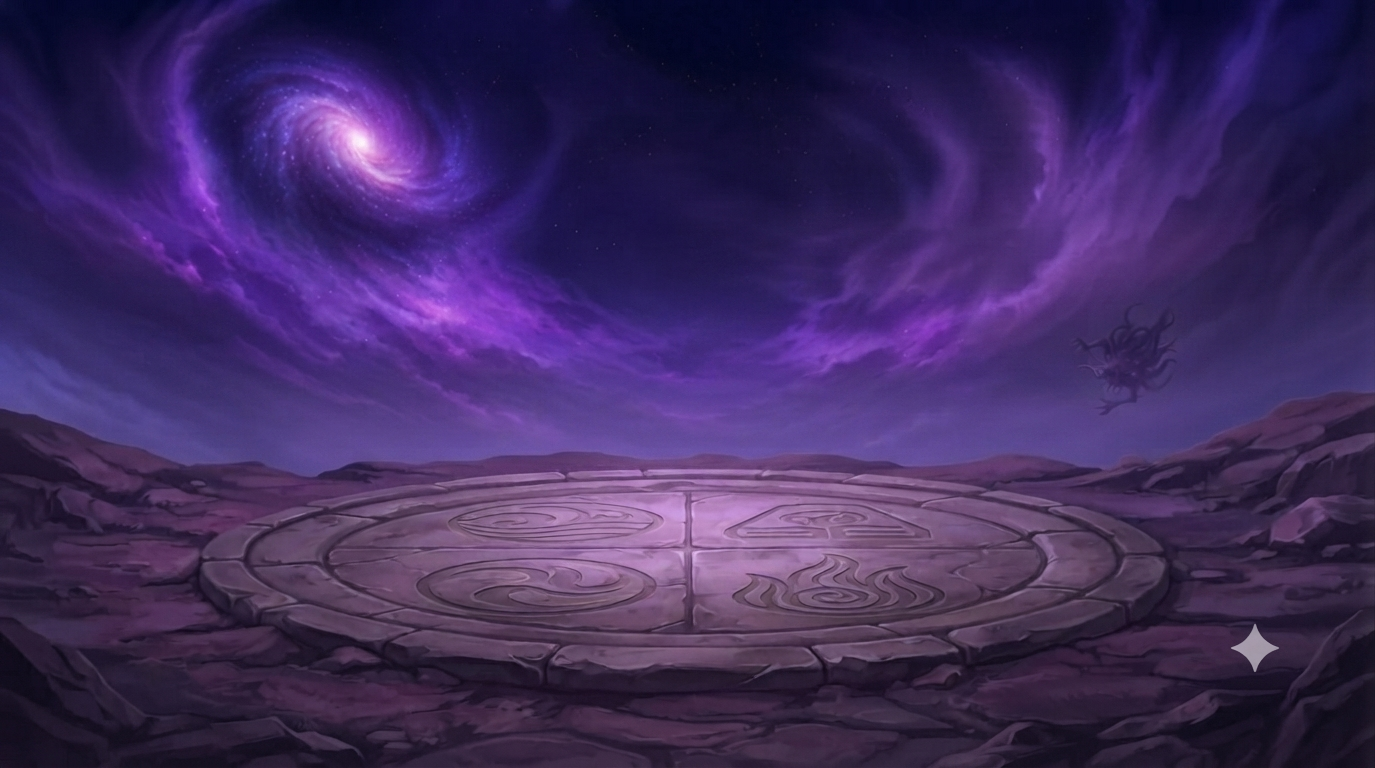
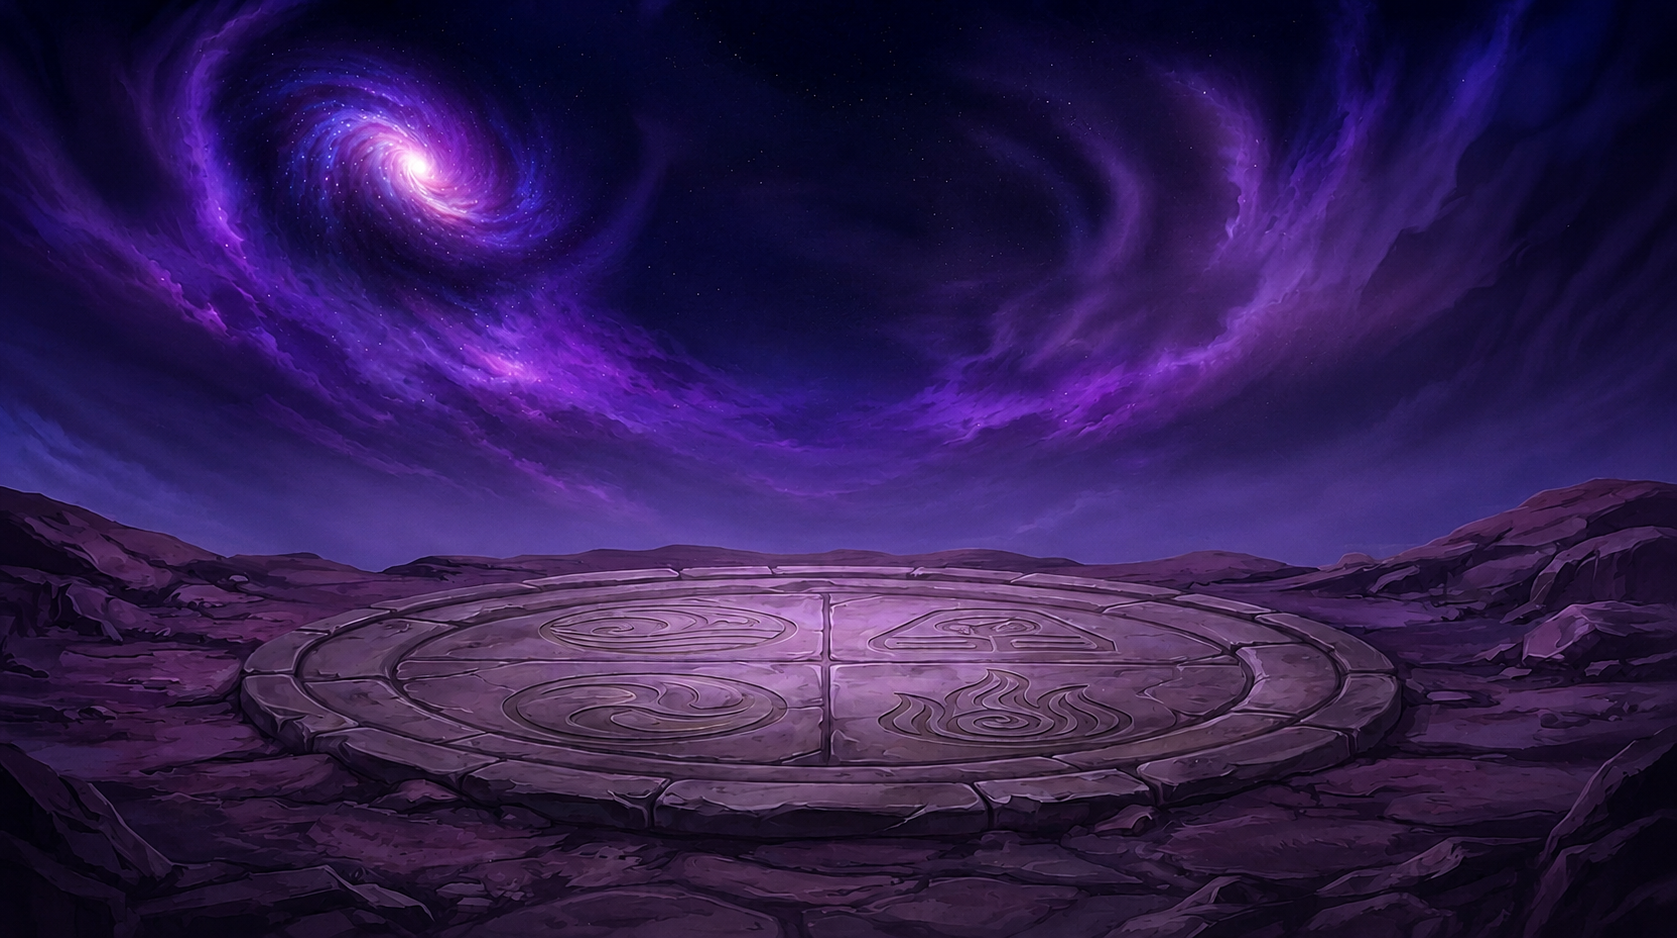
ajustes finais

diff --git a/src/routes/jogar/+page.svelte b/src/routes/jogar/+page.svelte
@@ -91,16 +91,16 @@
 	];
 
 	let listaInimigosCompleta: Inimigo[] = [
-		{ nome: 'Slime Verde', vida: 48, vidaMaxima: 48, ataque: 10, defesa: 3, emoji: '🟢' },
-		{ nome: 'Goblin Saqueador', vida: 70, vidaMaxima: 70, ataque: 14, defesa: 5, emoji: '👹' },
-		{ nome: 'Esqueleto Guerreiro', vida: 88, vidaMaxima: 88, ataque: 16, defesa: 7, emoji: '💀' },
-		{ nome: 'Orco Enfurecido', vida: 105, vidaMaxima: 105, ataque: 18, defesa: 9, emoji: '🐗' },
-		{ nome: 'Dragão Filhote (Chefe)', vida: 140, vidaMaxima: 140, ataque: 24, defesa: 10, emoji: '🐲', chefe: true},
+		{ nome: 'Árvore sombria', vida: 48, vidaMaxima: 48, ataque: 10, defesa: 3, emoji: '🪾' },
+		{ nome: 'Monstro de lava', vida: 70, vidaMaxima: 70, ataque: 14, defesa: 5, emoji: '👹' },
+		{ nome: 'Esqueleto de pedra', vida: 88, vidaMaxima: 88, ataque: 16, defesa: 7, emoji: '💀' },
+		{ nome: 'Tornado devastardor (chefe)', vida: 105, vidaMaxima: 105, ataque: 18, defesa: 9, emoji: '🌪️' },
+		{ nome: 'Dragão (Chefe)', vida: 140, vidaMaxima: 140, ataque: 24, defesa: 10, emoji: '🐲', chefe: true},
 		{ nome: 'Feiticeira das Sombras', vida: 118, vidaMaxima: 118, ataque: 21, defesa: 9, emoji: '🧙♀️'},
-		{ nome: 'Servo de Cristal', vida: 125, vidaMaxima: 125, ataque: 20, defesa: 10, emoji: '🔷' },
+		{ nome: 'Tsunami', vida: 125, vidaMaxima: 125, ataque: 20, defesa: 10, emoji: '🌊' },
 		{ nome: 'Harpia do Vento', vida: 132, vidaMaxima: 132, ataque: 21, defesa: 10, emoji: '🐦' },
 		{ nome: 'Guardião Flamejante', vida: 145, vidaMaxima: 145, ataque: 23, defesa: 11, emoji: '🔥'},
-		{ nome: 'Rei das Ruínas (Chefe)', vida: 158, vidaMaxima: 158, ataque: 25, defesa: 12, emoji: '👑', chefe: true}
+		{ nome: 'Rei das Ruínas (Chefe)', vida: 158, vidaMaxima: 160, ataque: 25, defesa: 12, emoji: '👑', chefe: true}
 	];
 
 	type ItemLoja = { id: string; nome: string; descricao: string; custo: number };
@@ -184,11 +184,12 @@
 		'Poder Especial': 0,
 		'Golpe Elemental': 0
 	};
-	let ataquesDisponiveis: Ataque[] = [
-		{ nome: 'Soco', emoji: '👊', multiplicador: 1.0, descricao: 'Ataque direto e estável' },
-		{ nome: 'Chute', emoji: '🥊', multiplicador: 1.12, descricao: 'Golpe mais forte' },
-		{ nome: 'Poder Especial', emoji: '✨', multiplicador: 1.35, descricao: 'Ataque devastador' },
-		{ nome: 'Golpe Elemental', emoji: '⚡', multiplicador: 1.2, descricao: 'Ataque com poder do elemento' }
+	let ataquesDisponiveis: Array<Ataque | { nome: string; emoji: string; multiplicador: number; descricao: string; tipo: 'ataque' | 'defesa' }> = [
+		{ nome: 'Soco', emoji: '👊', multiplicador: 1.0, descricao: 'Ataque direto e estável', tipo: 'ataque' },
+		{ nome: 'Chute', emoji: '🥊', multiplicador: 1.12, descricao: 'Golpe mais forte', tipo: 'ataque' },
+		{ nome: 'Poder Especial', emoji: '✨', multiplicador: 1.35, descricao: 'Ataque devastador', tipo: 'ataque' },
+		{ nome: 'Golpe Elemental', emoji: '⚡', multiplicador: 1.2, descricao: 'Ataque com poder do elemento', tipo: 'ataque' },
+		{ nome: 'Defesa', emoji: '🛡️', multiplicador: 0, descricao: 'Reduz o dano do próximo golpe', tipo: 'defesa' }
 	];
 
 	function ataqueEspecialAtingiuLimite(ataqueNome: string): boolean {
@@ -198,7 +199,8 @@
 
 	function restanteAtaqueEspecial(ataqueNome: string): number {
 		if (ataqueNome !== 'Poder Especial' && ataqueNome !== 'Golpe Elemental') return 0;
-		return LIMITE_ATAQUES_ESPECIAIS - (usosAtaquesEspeciais[ataqueNome] ?? 0);
+		const usosAtual = usosAtaquesEspeciais[ataqueNome] ?? 0;
+		return Math.max(0, LIMITE_ATAQUES_ESPECIAIS - usosAtual);
 	}
 
 	function escolherPersonagem(personagem: Personagem) {
@@ -248,13 +250,47 @@
 		goto('/');
 	}
 
+	let mostrarConfirmacaoSaida = false;
+
+    function abrirConfirmacaoSaida() {
+        mostrarConfirmacaoSaida = true;
+    }
+
+    function cancelarSaidaBatalha() {
+        mostrarConfirmacaoSaida = false;
+    }
+
+    function confirmarSaidaBatalha() {
+        mostrarConfirmacaoSaida = false;
+
+        jogo = {
+            personagemSelecionado: null,
+            inimigoAtual: null,
+            fase: 1,
+            mensagem: '',
+            tela: 'menu'
+        };
+
+        pilhaTelas = ['historia'];
+        logEventos = [];
+        usosAtaquesEspeciais = {
+            'Poder Especial': 0,
+            'Golpe Elemental': 0
+        };
+        heroiSofreDano = false;
+        inimigoSofreDano = false;
+        efeitoAtaque = '';
+        danoCausado = 0;
+        danoRecebido = 0;
+    }
+	
 	function atacar(tipoAtaque: string = 'Soco') {
 		if (!jogo.personagemSelecionado || !jogo.inimigoAtual) return;
 
 		const ataque =
 			ataquesDisponiveis.find((item) => item.nome === tipoAtaque) ?? ataquesDisponiveis[0];
 
-		if (ataqueEspecialAtingiuLimite(ataque.nome)) {
+		if (ataque.tipo === 'ataque' && ataqueEspecialAtingiuLimite(ataque.nome)) {
 			jogo.mensagem = `${ataque.nome} já foi usado ${LIMITE_ATAQUES_ESPECIAIS} vezes nesta partida.`;
 			return;
 		}
@@ -266,14 +302,44 @@
 			};
 		}
 
+		if (ataque.nome === 'Defesa') {
+			jogo.mensagem = `${jogo.personagemSelecionado.nome} entrou em defesa!`;
+			logEventos = [
+				`${jogo.personagemSelecionado.nome} assumiu uma postura defensiva.`,
+				...logEventos.slice(0, 2)
+			];
+			const danoHeroi = Math.max(
+				Math.round((jogo.inimigoAtual.ataque * 0.4 - jogo.personagemSelecionado.defesa * 0.3) * 0.95),
+				1
+			);
+			jogo.personagemSelecionado.vida -= danoHeroi;
+			danoRecebido = danoHeroi;
+			heroiSofreDano = true;
+			setTimeout(() => (heroiSofreDano = false), 300);
+			setTimeout(() => (danoRecebido = 0), 350);
+			if (jogo.personagemSelecionado.vida <= 0) {
+				alert('🎯 GAME OVER! Seu herói caiu em combate.');
+				reiniciarJogo();
+			}
+			return;
+		}
+
 		const elemento = jogo.personagemSelecionado.elemento
 			.toLowerCase()
 			.normalize('NFD')
 			.replace(/\p{Diacritic}/gu, '');
 		efeitoAtaque = elemento;
+
+		const multiplicadorAtaque =
+			ataque.nome === 'Poder Especial'
+				? 1.7
+				: ataque.nome === 'Golpe Elemental'
+					? 1.55
+					: ataque.multiplicador;
+
 		const danoInimigo = Math.max(
 			Math.round(
-				(jogo.personagemSelecionado.ataque * (0.9 + ataque.multiplicador * 0.08) -
+				(jogo.personagemSelecionado.ataque * (0.9 + multiplicadorAtaque * 0.08) -
 					jogo.inimigoAtual.defesa * 0.55) * 0.95
 			),
 			5
@@ -325,7 +391,6 @@
 		setTimeout(() => (heroiSofreDano = false), 300);
 		setTimeout(() => (danoRecebido = 0), 350);
 
-		// Jogador derrotado
 		if (jogo.personagemSelecionado.vida <= 0) {
 			alert('🎯 GAME OVER! Seu herói caiu em combate.');
 			reiniciarJogo();
@@ -379,21 +444,15 @@
 		<section class="menu-inicial">
 			<div class="menu-content">
 				<div class="menu-header">
-					<div class="menu-badge">⚔️ Reino de Helium • Aventura épica</div>
+				
 					<h1>
-						Os reinos estão em colapso.
-						<span>O despertar começou.</span>
+						Os reinos estão em colapso
+
 					</h1>
 					<p class="menu-subtitle">
-						Escolha um elemento, domine os combates e enfrente os chefes que ameaçam o mundo.
+						Domine os combates e enfrente os chefes que ameaçam o mundo
 					</p>
-				</div>
-
-				<div class="menu-info-grid">
-					<div class="menu-info-card">
-						<strong>4 elementos</strong>
-						<span>Fogo, Água, Terra e Ar</span>
-					</div>
+		
 					<div class="menu-info-card">
 						<strong>10 fases</strong>
 						<span>Do iniciante ao confronto final</span>
@@ -558,18 +617,18 @@
 									<span class="emoji-ataque">{ataque.emoji}</span>
 									<strong>{ataque.nome}</strong>
 									<small>{ataque.descricao}</small>
-									{#if ataque.nome === 'Poder Especial' || ataque.nome === 'Golpe Elemental'}
+									{#if ataque.tipo === 'ataque' && (ataque.nome === 'Poder Especial' || ataque.nome === 'Golpe Elemental')}
 										<small>
 											{ataqueEspecialAtingiuLimite(ataque.nome)
 												? 'Limite atingido'
-												: `${restanteAtaqueEspecial(ataque.nome)} restante(s)`}
+												: `${restanteAtaqueEspecial(ataque.nome)} restante${restanteAtaqueEspecial(ataque.nome) === 1 ? '' : 's'}`}
 										</small>
 									{/if}
 								</button>
 							{/each}
 						</div>
 						<div class="grupo-botoes-secundarios">
-							<button class="botao-voltar-batalha botao-acao" on:click={voltarTela}>Voltar</button>
+							<button class="botao-voltar-batalha botao-acao" on:click={abrirConfirmacaoSaida}>Voltar</button>
 							<button class="botao-voltar-batalha botao-acao" on:click={irParaHome}>Home</button>
 						</div>
 					</div>
@@ -595,6 +654,18 @@
 				{/if}
 			</div>
 		</section>
+	{/if}
+
+	{#if mostrarConfirmacaoSaida}
+		<div class="confirmacao-saida-overlay" role="dialog" aria-modal="true" aria-labelledby="confirmar-saida-titulo">
+			<div class="confirmacao-saida-card">
+				<p id="confirmar-saida-titulo">Tem certeza que deseja abandonar a batalha?</p>
+				<div class="confirmacao-saida-acoes">
+					<button class="botao-acao" on:click={confirmarSaidaBatalha}>Sim</button>
+					<button class="botao-acao" on:click={cancelarSaidaBatalha}>Não</button>
+				</div>
+			</div>
+		</div>
 	{/if}
 
 	{#if jogo.tela == 'fim'}

diff --git a/src/styles/jogar.css b/src/styles/jogar.css
@@ -268,28 +268,72 @@
 		padding: 12px 24px;
 	}
 
+	.confirmacao-saida-overlay {
+        position: fixed;
+        inset: 0;
+        background: rgba(0, 0, 0, 0.75);
+        display: flex;
+        align-items: center;
+        justify-content: center;
+        z-index: 2000;
+    }
+
+    .confirmacao-saida-card {
+        background: #1f1b2e;
+        border: 2px solid #ffd166;
+        border-radius: 16px;
+        padding: 2rem;
+        text-align: center;
+        color: #fff;
+        box-shadow: 0 10px 30px rgba(0, 0, 0, 0.35);
+        max-width: 90%;
+    }
+
+    .confirmacao-saida-card p {
+        margin-bottom: 1rem;
+        font-size: 1.1rem;
+    }
+
+    .confirmacao-saida-acoes {
+        display: flex;
+        gap: 1rem;
+        justify-content: center;
+    }
+
+    .confirmacao-saida-acoes button {
+        min-width: 90px;
+    }
+
 	.acoes-batalha {
 		display: flex;
 		flex-direction: column;
 		align-items: center;
 		gap: 8px;
 		margin-top: 6px;
+		background: rgba(10, 10, 10, 0.82);
+		border: 1px solid rgba(212, 175, 55, 0.45);
+		border-radius: 12px;
+		padding: 10px 12px;
+		box-shadow: 0 4px 14px rgba(0, 0, 0, 0.22);
+		max-width: 720px;
+		margin-inline: auto;
 	}
 
 	.titulo-ataques {
 		margin: 0;
 		font-weight: 700;
-		color: #f3f3f1;
+		color: #d4af37;
 		text-transform: uppercase;
 		letter-spacing: 0.08em;
 		font-size: 1.25rem;
 	}
 
 	.grupo-ataques {
-		display: grid;
-		grid-template-columns: repeat(2, minmax(120px, 1fr));
+		display: flex;
+		flex-wrap: wrap;
+		justify-content: center;
 		gap: 8px;
-		width: min(100%, 360px);
+		width: min(100%, 720px);
 	}
 
 	.botao-ataque-opcao {
@@ -338,8 +382,22 @@
 	}
 
 	.botao-voltar-batalha {
+		display: inline-block;
 		min-width: 120px;
 		text-align: center;
+		padding: 10px 20px;
+		background: #5a2828;
+		color: white;
+		text-decoration: none;
+		border-radius: 5px;
+		transition: background 0.3s;
+		font-family: 'Cinzel Decorative', serif;
+		font-size: 1rem;
+		border: 1px solid rgba(255, 255, 255, 0.15);
+	}
+
+	.botao-voltar-batalha:hover {
+		background: #7d1d1d;
 	}
 
 	.boss-token {
@@ -982,6 +1040,11 @@
 		width: 100%;
 		max-width: 900px;
 		margin-bottom: 10px;
+		position: sticky;
+		top: 0.75rem;
+		z-index: 30;
+		display: flex;
+		justify-content: center;
 	}
 
 	.hud-painel {
@@ -989,6 +1052,7 @@
 		gap: 12px;
 		flex-wrap: wrap;
 		justify-content: center;
+		align-items: center;
 	}
 
 	.hud-item {

diff --git a/src/styles/home.css b/src/styles/home.css
@@ -1,5 +1,5 @@
 main#home-bg {
-	background: url('/images/background.png') no-repeat center/cover;
+	background: url('/images/background.jpeg') no-repeat center/cover;
 	min-height: 100vh;
 	width: 100vw;
 	display: flex;

diff --git a/src/styles/sobre.css b/src/styles/sobre.css
@@ -7,7 +7,7 @@ body, html {
 .sobre-page {
     width: 100vw;
     height: 100vh;
-    background-image: url('images/background.png');
+    background-image: url('images/background.jpeg');
     background-size: cover;
     background-position: center;
     background-repeat: no-repeat;